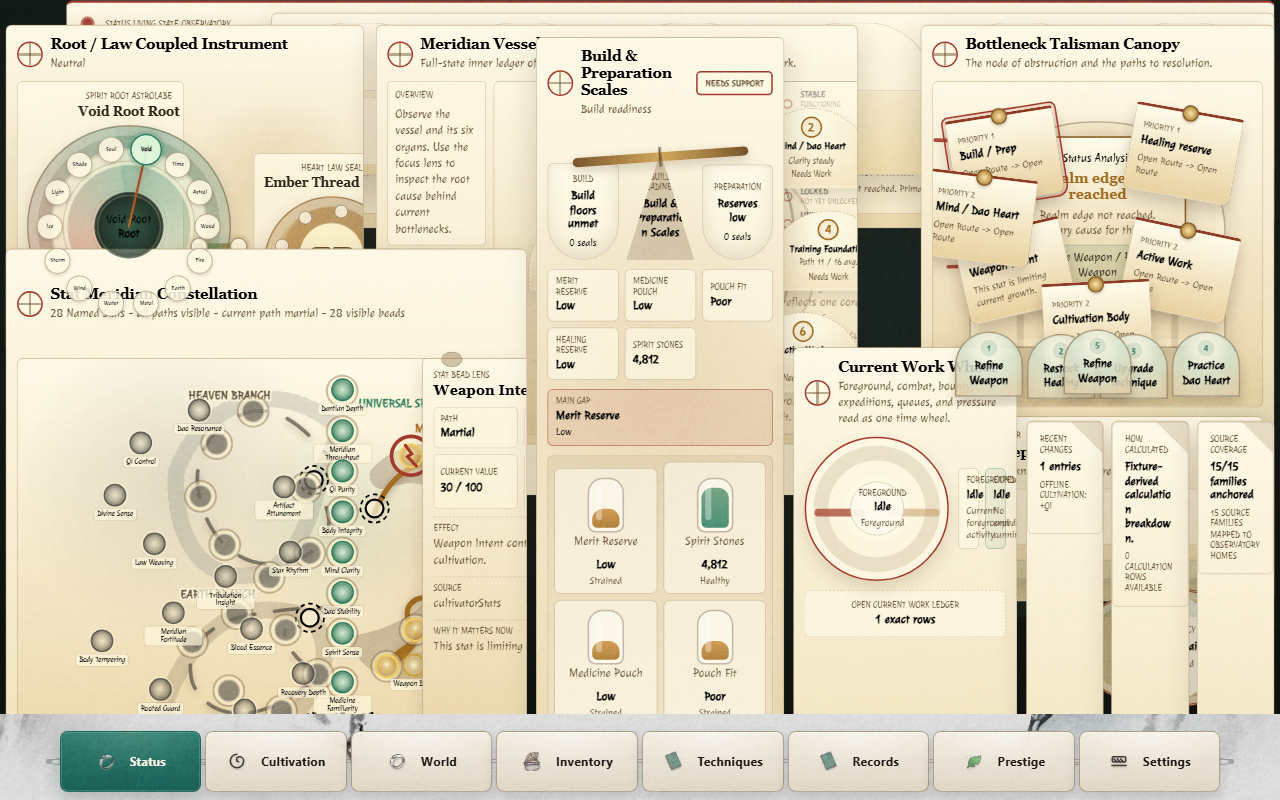
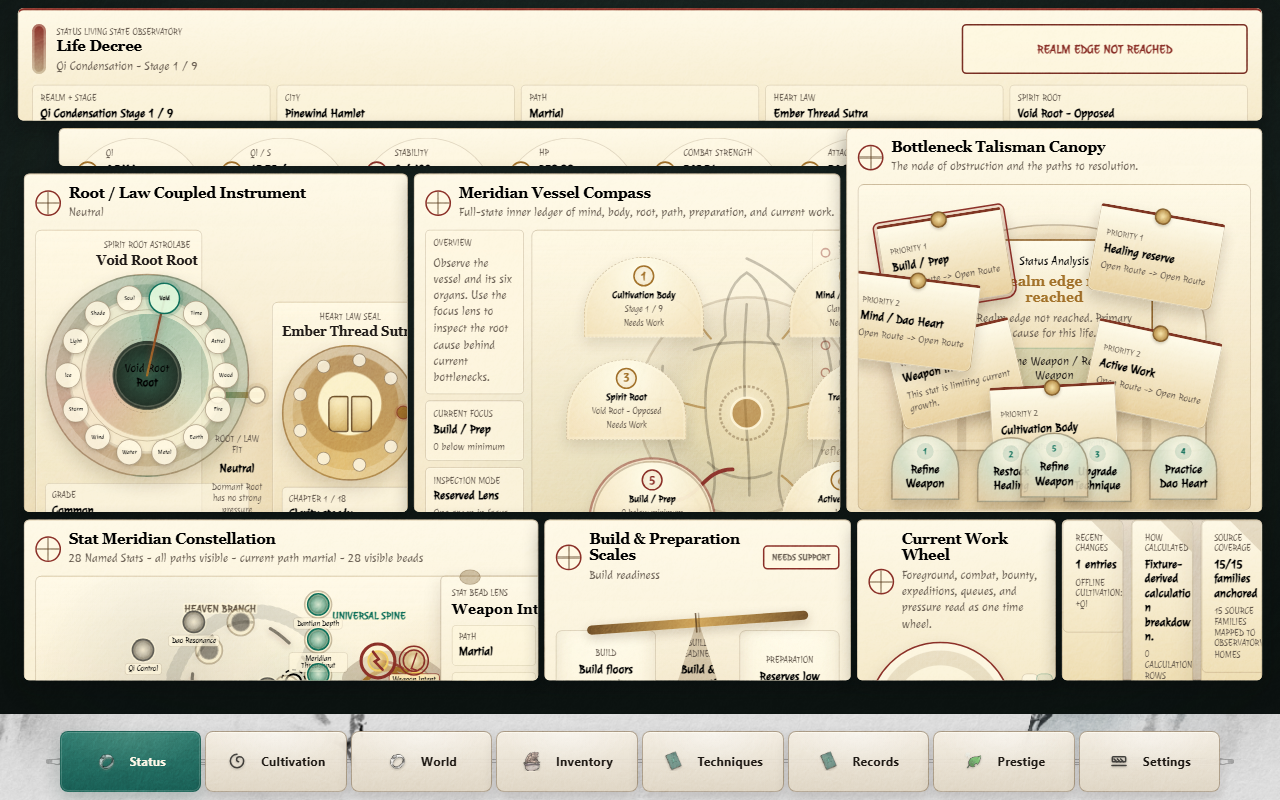
oneshot S2: Frame-I region rects + parchment plates + palette purge (D-2 aliased to tokens)

diff --git a/src/ui/status/observatory/StatusLivingStateObservatory.scss b/src/ui/status/observatory/StatusLivingStateObservatory.scss
@@ -1,15 +1,18 @@
 @use './fx/observatoryMaterials';
 
 .statusObservatoryRoot {
-  --observatory-paper: #f4ead2;
-  --observatory-paper-deep: #e4cf9d;
-  --observatory-ink: #2e2417;
-  --observatory-muted: #6d5a3d;
+  /* S2 palette purge (D-2): the local observatory palette is now a thin set of
+     aliases onto the real paperInk tokens — no raw hex, no contradiction. The
+     two rgba helpers were never hex and stay as gate-compliant rgba. */
+  --observatory-paper: var(--paper-parchment);
+  --observatory-paper-deep: var(--paper-parchment-strong);
+  --observatory-ink: var(--paper-ink);
+  --observatory-muted: var(--paper-ink-muted);
   --observatory-line: rgba(81, 54, 26, 0.26);
-  --observatory-jade: #2f7f62;
-  --observatory-gold: #a36c21;
-  --observatory-cinnabar: #a33a2c;
-  --observatory-bronze: #7a5a2c;
+  --observatory-jade: var(--paper-jade-bright);
+  --observatory-gold: var(--paper-amber);
+  --observatory-cinnabar: var(--paper-stamp);
+  --observatory-bronze: var(--paper-rare);
   --observatory-shadow: rgba(48, 30, 9, 0.18);
   color: var(--observatory-ink);
   width: 100%;
@@ -89,45 +92,42 @@
   gap: var(--ui-layout-section-gap);
 }
 
-/* Semantic region wrappers are the canvas grid children; each instrument
-   keeps its own internal layout and test anchors inside its region. */
+/* Semantic region wrappers are absolutely placed on the Stage canvas at the
+   Frame-I rects (design units). Each is a parchment instrument plate floating
+   on the void; the instrument renders its own internals inside. */
 .obsRegion {
-  display: grid;
+  position: absolute;
   min-width: 0;
   min-height: 0;
+  overflow: hidden;
+  border-radius: 7px;
+  background: radial-gradient(
+    140% 120% at 22% 18%,
+    var(--paper-parchment-soft) 0%,
+    var(--paper-parchment) 46%,
+    var(--paper-parchment-strong) 100%
+  );
+  box-shadow:
+    0 10px 26px rgba(8, 12, 10, 0.45),
+    var(--obs-plate-edge),
+    var(--obs-plate-age);
 }
 
-.obsRegion--decree {
-  grid-area: decree;
-}
+/* Frame-I macro composition — absolute region rects (x, y, w, h in design units). */
+.obsRegion--decree        { left: 16px;   top: 10px;  width: 1640px; height: 148px; }
+.obsRegion--vitals        { left: 70px;   top: 168px; width: 1160px; height: 50px; }
+.obsRegion--root-law      { left: 24px;   top: 228px; width: 506px;  height: 446px; }
+.obsRegion--vessel        { left: 538px;  top: 228px; width: 562px;  height: 446px; }
+.obsRegion--canopy        { left: 1108px; top: 168px; width: 548px;  height: 506px; }
+.obsRegion--constellation { left: 24px;   top: 684px; width: 678px;  height: 212px; }
+.obsRegion--scales        { left: 710px;  top: 684px; width: 404px;  height: 212px; }
+.obsRegion--wheel         { left: 1122px; top: 684px; width: 262px;  height: 212px; }
+.obsRegion--ledgers       { left: 1392px; top: 684px; width: 264px;  height: 212px; }
 
-.obsRegion--vitals {
-  grid-area: vitals;
-}
-
-.obsRegion--root-law {
-  grid-area: rootlaw;
-}
-
-.obsRegion--vessel {
-  grid-area: vessel;
-}
-
-.obsRegion--canopy {
-  grid-area: canopy;
-}
-
-/* Compact symbolic support belt: constellation | scales | wheel | ledgers. */
+/* The belt wrapper no longer lays out — its children position against the
+   canvas via their own absolute rects. */
 .obsBelt {
-  grid-area: belt;
-  display: grid;
-  grid-template-columns:
-    minmax(0, 42fr)
-    minmax(0, 20fr)
-    minmax(0, 18fr)
-    minmax(0, 20fr);
-  gap: var(--ui-layout-card-gap);
-  min-width: 0;
+  display: contents;
 }
 
 /* Tone-attribute plumbing only (instrument-level theming lands in later

diff --git a/docs/release/ONESHOT_PROGRESS.md b/docs/release/ONESHOT_PROGRESS.md
@@ -27,7 +27,7 @@ Crash-recovery spine: each stage is ticked, noted (3–6 lines), and committed (
 ## Stage checklist
 - [x] **S0** Recon
 - [x] **S1** The Stage (fixed 1672×941 design space, scale hook, void viewport, full-bleed)
-- [ ] **S2** Palette purge + Frame-I region rects + plate materials/title tabs
+- [x] **S2** Palette purge + Frame-I region rects + plate materials/title tabs
 - [ ] **S3** Life Decree + Vitals Ribbon
 - [ ] **S4** Root/Law Coupled Instrument (port the prototype astrolabe)
 - [ ] **S5** Meridian Vessel + Bottleneck Canopy (all 4 modes)
@@ -79,3 +79,13 @@ Fixed-design-space Stage + uniform monitor scaling (the void frame everything si
 - **Gate (Playwright, blocked fixture):** 2560×1440 → scale 1.439, stage scaled to 2406px **centered with 77px void margins L/R**, void = rgb(32,48,44), content full-bleed 2560w, `docScrollW==innerW` (no h-scroll). 1280×800 + 1920×1080 captured & passing. Geometry JSON proves it; thumbnail looked light only because void margins are ~18px at thumb scale and the *old* card composition fills the rest (expected at S1).
 - Deviation: dead `.obsVoidBackdrop` rule left in `observatoryMaterials.scss` (class renamed) → S13 cleanup. `git add -A` not used (scoped commits — unrelated prior working-tree changes kept out).
 - typecheck GREEN. Screenshots: `artifacts/s10-exact-mockup/stage-gate/blocked-{2560x1440,1920x1080,1280x800}.png`.
+
+---
+
+## S2 — Palette purge + Frame-I region rects ✅
+- **Palette purge (D-2 core):** the local `--observatory-*` palette is now aliased onto real tokens (parchment / parchment-strong / ink / ink-muted / jade-bright / amber / stamp / rare) — 8 raw-hex defs eliminated, the contradiction with the token system resolved; all 129 consumers become token-backed transitively. The 2 rgba helpers (line/shadow) were never hex and stay.
+- **Frame-I region rects:** replaced the fluid grid with absolute rects (design units) on the 9 `.obsRegion--*` wrappers; `.obsBelt`→`display:contents`. Each region is now a parchment plate (radial parchment bg + `--obs-plate-edge` + `--obs-plate-age` + drop shadow), clipped to its rect, floating on the void.
+- **Gate:** blocked @2560×1440 screenshot shows the 9 plates in the Frame-I arrangement — decree band, slim vitals ribbon, root-law/vessel/canopy triad (canopy taller + starting higher), constellation/scales/wheel/ledgers belt — on slate-teal void with visible gutters. e2e PASS: default route (inner testids visible, Observe Spirit Root works, no h-overflow, no vocab leak) + blocked state (9 regions visible, resolver attrs, region count). **No regression** from absolute positioning + clip.
+- **Deferred (logged):** 19 inline raw-hex remain in OLD instrument rules in the monolith (scss lines 281–2238); those rules are rewritten in S3–S6, purging the hex then; full hex-gate at S13/S14. Legacy non-observatory files (`StatusLedgerPage.scss`, `RunCompass.scss`, `PostFailureDiagnosisPanel.scss`) carry hex but are outside this rebuild's scope.
+- S2 touched only `src/ui` SCSS (no `src/systems`) → contracts 508 baseline holds; typecheck unaffected.
+- Screenshot: `artifacts/s10-exact-mockup/stage-gate/blocked-2560x1440.png` (post-rects).
